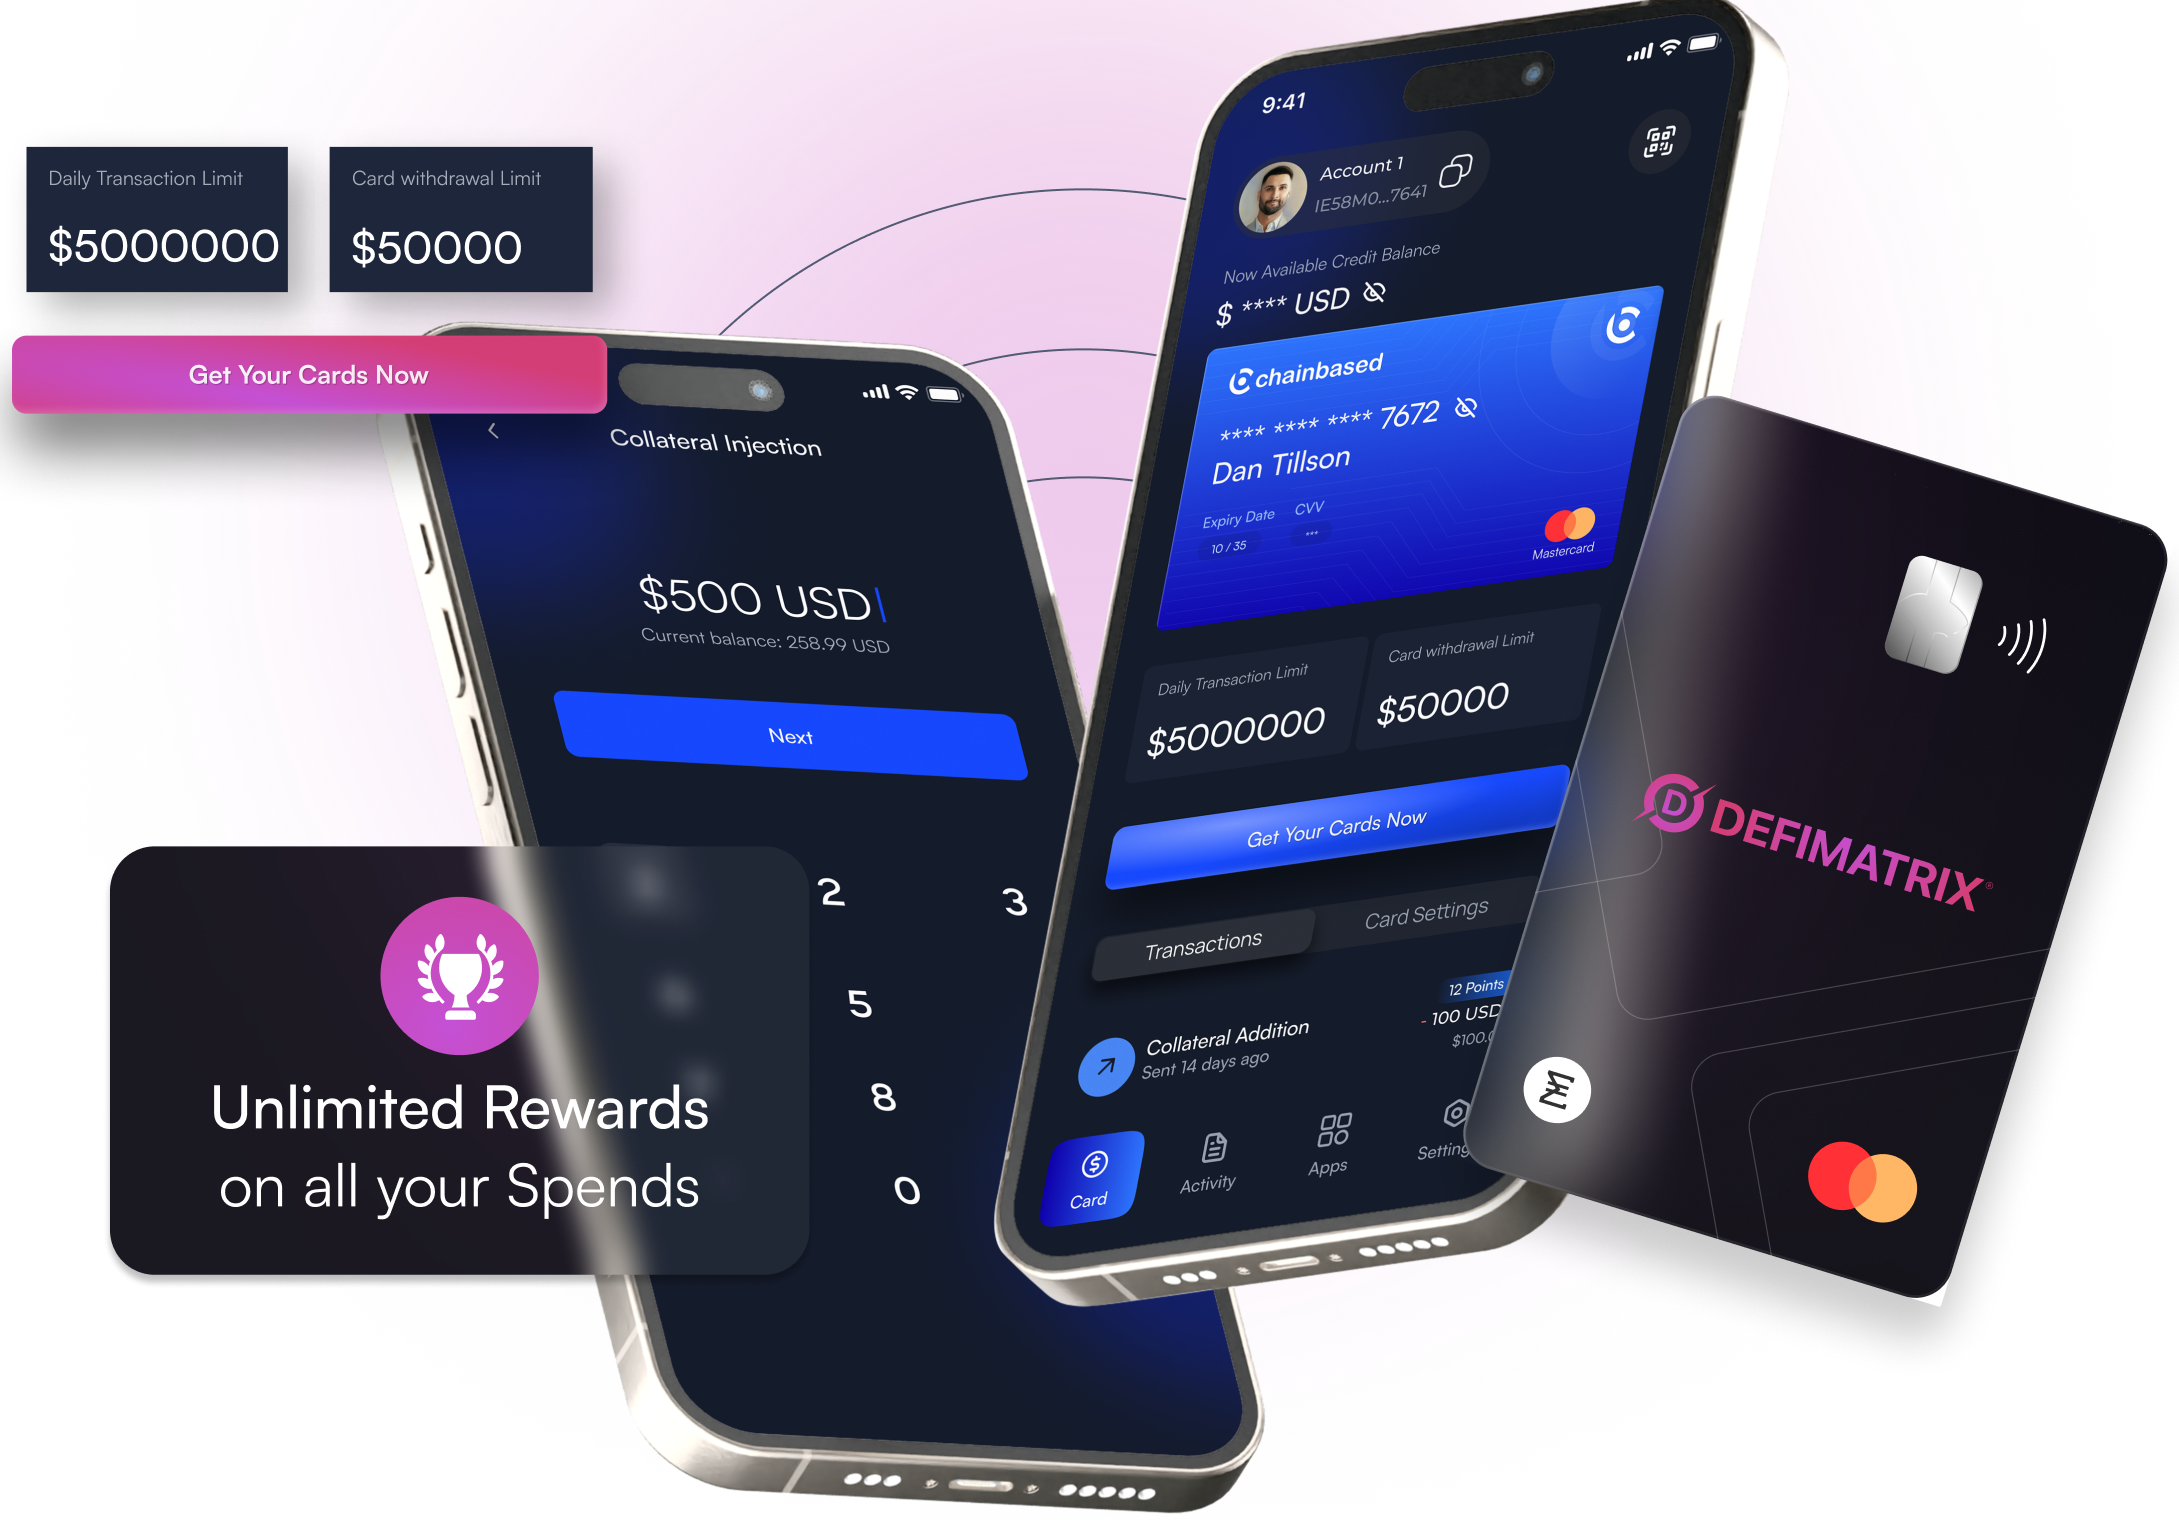
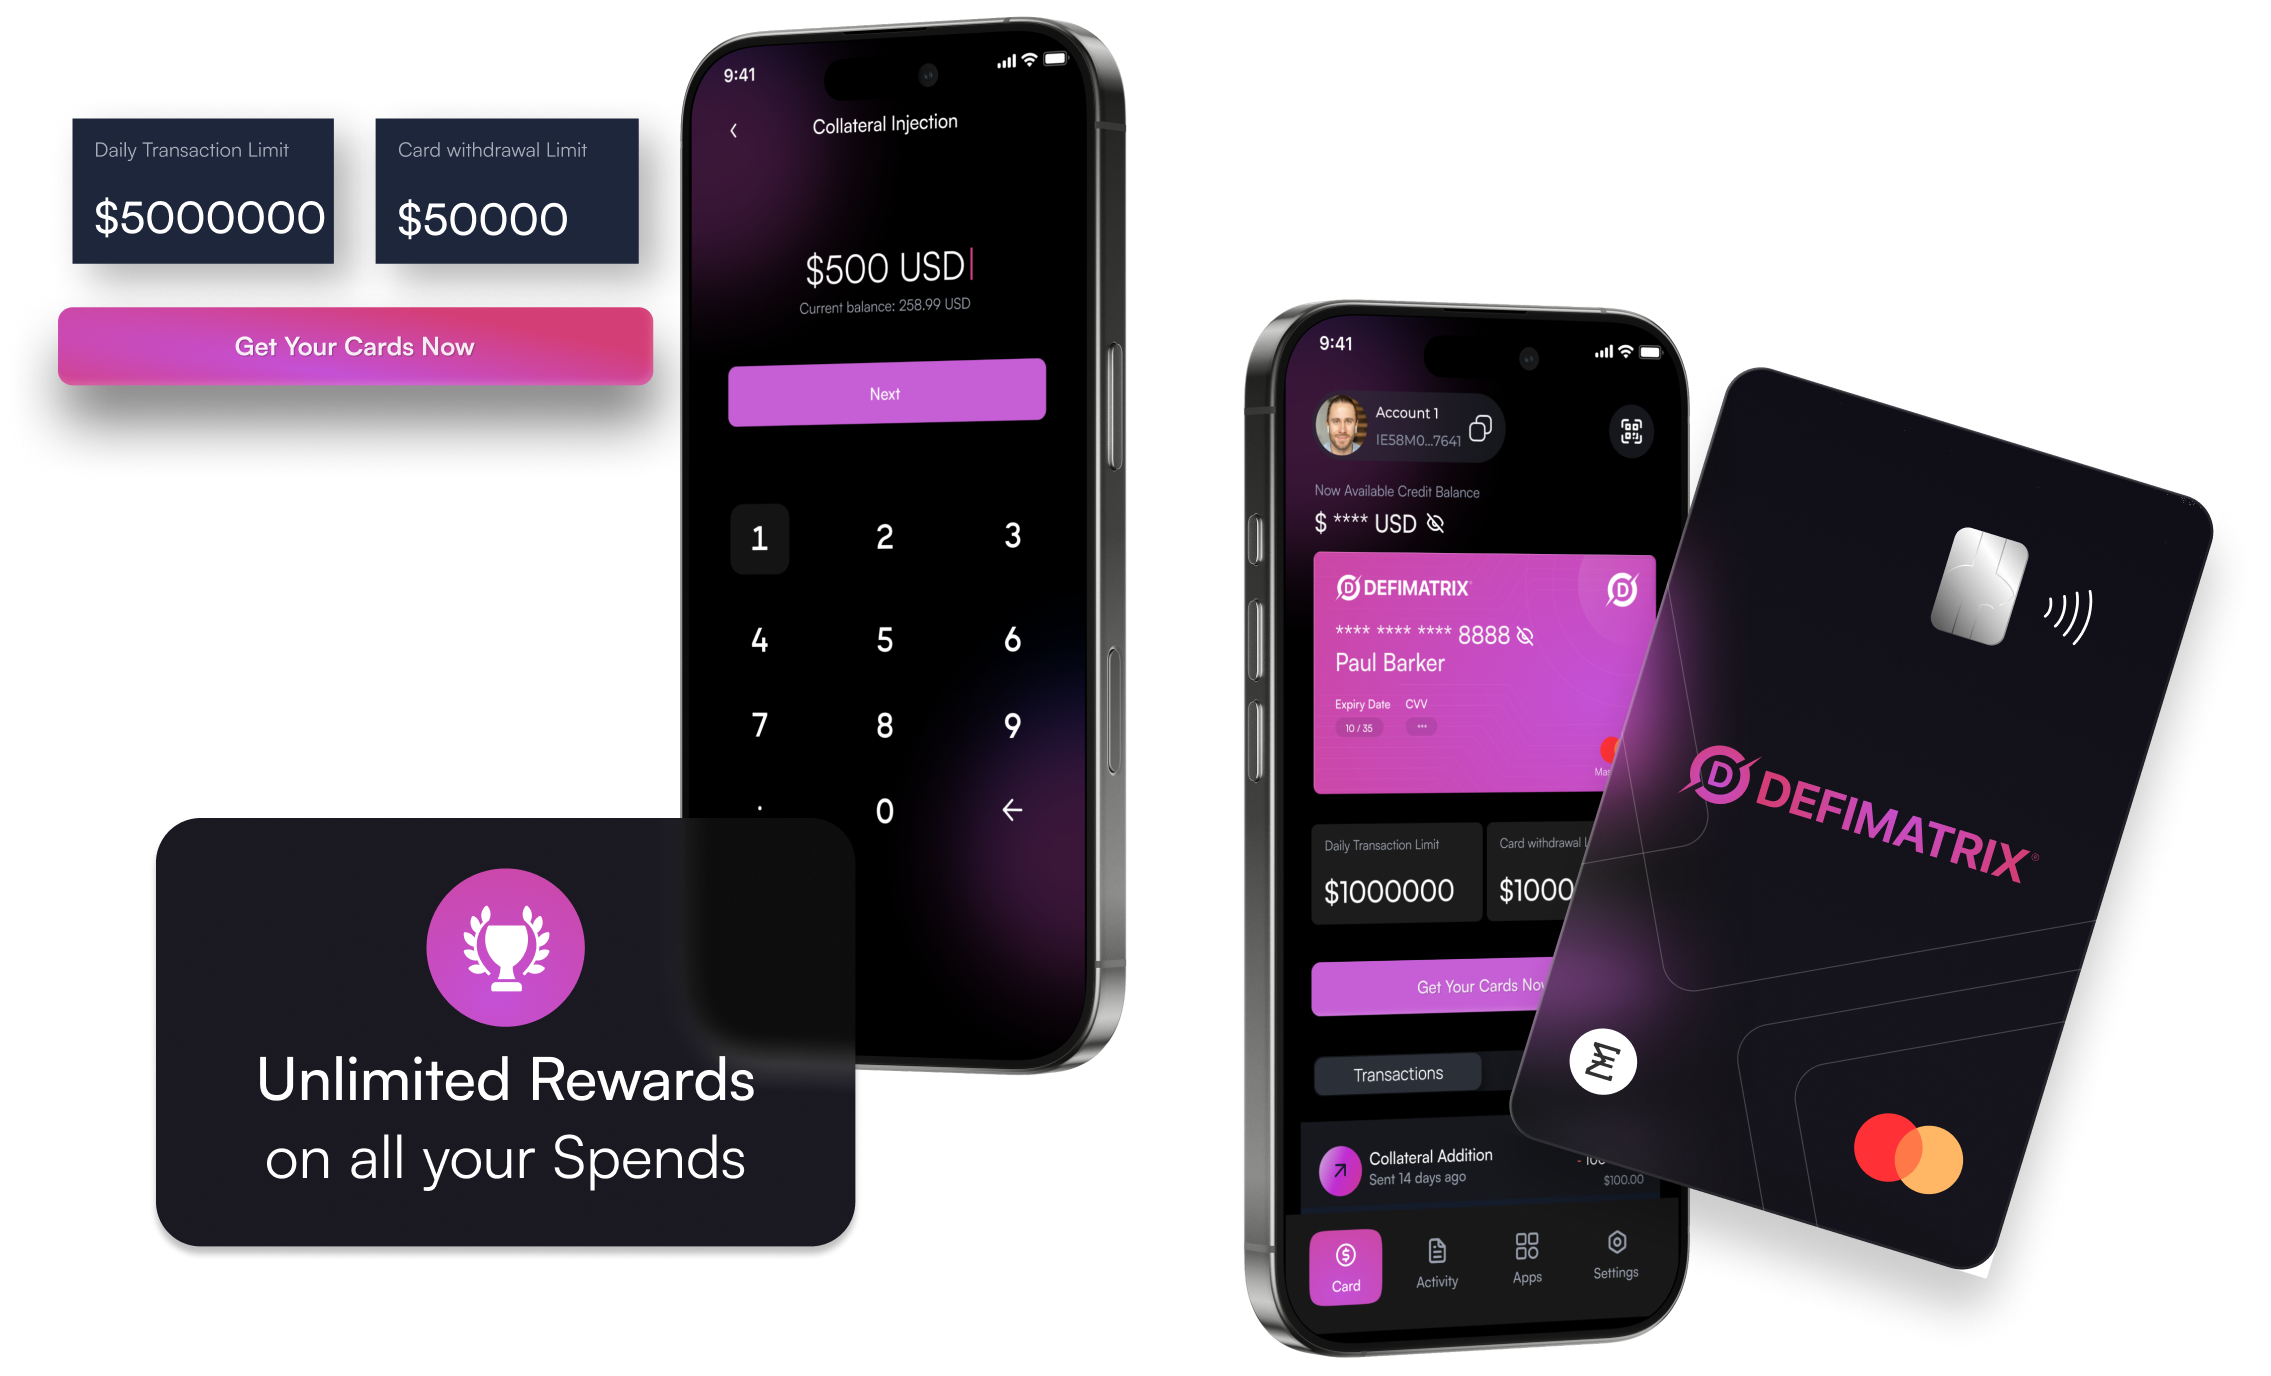
Refactor layout and update images for enhanced visual appeal on PricingPage

diff --git a/src/app/get-your-card/page.tsx b/src/app/get-your-card/page.tsx
@@ -13,68 +13,70 @@ export default function PricingPage() {
           <Header  />
         </div>
             <div className="group/tiers py-12">
-      <div className="mx-auto max-w-7xl px-6 lg:px-8">
-        <div className="mx-auto max-w-4xl text-center">
-          <p className="text-balance text-3xl font-thin tracking-tight text-white sm:text-6xl">
-            Spend Crypto Like <span className="font-normal text-[#C450D5]">Cash</span>
-          </p>
-        </div>
-        <p className="mx-auto mt-3 max-w-2xl text-pretty text-center text-lg font-medium text-white/80">
-          Use your crypto for everyday expenses seamlessly
-        </p>
-         <p className="mx-auto mt-2 max-w-2xl text-pretty text-center text-lg font-medium text-white">
-          Anytime. Anywhere.
-        </p>
-         <a
-                href="mailto:enterpriseplaninquiry@defimatrix.io"
-                className="mt-8 block  rounded-full bg-gradient-to-r from-purple-500 to-pink-500 px-6 py-3 text-center text-sm font-thin text-white transition-all duration-200 hover:from-purple-600 hover:to-pink-600    w-fit mx-auto"
-              >
-                Get Your Cards Now
-              </a>
-        <img src='/Card_1.png' alt='Get Your Card' className='  w-full  rounded-xl shadow-lg' />
-      
-        <div className="isolate mx-auto mt-10 grid max-w-md grid-cols-1 gap-4 md:max-w-2xl md:grid-cols-2 lg:max-w-4xl xl:mx-0 xl:max-w-none xl:grid-cols-4">
-     
-        </div>
-      </div>
+                <div className="mx-auto max-w-7xl px-6 lg:px-8">
+                  <div className="mx-auto max-w-4xl text-center">
+                    <p className="text-balance text-3xl font-thin tracking-tight text-white sm:text-6xl">
+                      Spend Crypto Like <span className="font-normal text-[#C450D5]">Cash</span>
+                    </p>
+                  </div>
+                  <p className="mx-auto mt-3 max-w-2xl text-pretty text-center text-lg font-medium text-white/80">
+                    Use your crypto for everyday expenses seamlessly
+                  </p>
+                  <p className="mx-auto mt-2 max-w-2xl text-pretty text-center text-lg font-medium text-white">
+                    Anytime. Anywhere.
+                  </p>
+                  <a
+                          href="mailto:enterpriseplaninquiry@defimatrix.io"
+                          className="mt-8 block  rounded-full bg-gradient-to-r from-purple-500 to-pink-500 px-6 py-3 text-center text-sm font-thin text-white transition-all duration-200 hover:from-purple-600 hover:to-pink-600    w-fit mx-auto"
+                        >
+                          Get Your Cards Now
+                        </a>
+                   <div className="mt-10 relative" aria-hidden="true" >
+                      <div className="relative w-[50vw] mx-auto mt-5 py-5">
+                        {/* Center main card image */}
+                        <img 
+                          src='/Iphone1.png' 
+                          alt='Get Your Card' 
+                          className='h-[30vh] sm:h-[80vh] rounded-xl shadow-lg animate-float mx-auto' 
+                        />
+                        
+                        {/* Top-left floating image */}
+                        <img 
+                          src='/imagelt.png' 
+                          alt='Feature 1' 
+                          className='absolute top-0 left-[-5%] sm:left-[-10%] h-[10vh] sm:h-[35vh] object-contain rounded-lg shadow-md animate-slide-from-left' 
+                        />
+                        
+                        {/* Bottom-left floating image */}
+                        <img 
+                          src='/imagelb.png' 
+                          alt='Feature 2' 
+                          className='absolute bottom-0 left-[-12%] h-[10vh] sm:h-[35vh] object-contain rounded-lg shadow-md animate-slide-from-left-delayed' 
+                        />
+                        
+                        {/* Mid-right floating image */}
+                        <img 
+                          src='/imagerc.png' 
+                          alt='Feature 3' 
+                          className='absolute top-1/2 right-[-10%] transform -translate-y-1/2 h-[25vh] sm:h-[80vh] object-contain rounded-lg shadow-md animate-slide-from-right' 
+                        />
+                      </div>
+                    </div>
+                
+                  <div className="isolate mx-auto mt-10 grid max-w-md grid-cols-1 gap-4 md:max-w-2xl md:grid-cols-2 lg:max-w-4xl xl:mx-0 xl:max-w-none xl:grid-cols-4">
+              
+                  </div>
+                </div>
 
-      <div className="mx-auto max-w-4xl text-center">
-          <p className="text-balance text-5xl font-thin tracking-tight text-white sm:text-6xl">
-            The Most Rewarding Crypto Card
-          </p>
-        </div>
-        <div className="mt-20 relative" aria-hidden="true" >
-            <div className="relative w-[50vw] mx-auto mt-5 py-5">
-              {/* Center main card image */}
-              <img 
-                src='/Iphone.png' 
-                alt='Get Your Card' 
-                className='h-[30vh] sm:h-[80vh] rounded-xl shadow-lg animate-float mx-auto' 
-              />
-              
-              {/* Top-left floating image */}
-              <img 
-                src='/Frame1.png' 
-                alt='Feature 1' 
-                className='absolute top-0 left-[-5%] sm:left-[-10%] h-[8vh] sm:h-[30vh] object-contain rounded-lg shadow-md animate-slide-from-left' 
-              />
-              
-              {/* Bottom-left floating image */}
-              <img 
-                src='/Frame.png' 
-                alt='Feature 2' 
-                className='absolute bottom-0 left-[-12%] h-[8vh] sm:h-[30vh] object-contain rounded-lg shadow-md animate-slide-from-left-delayed' 
-              />
-              
-              {/* Mid-right floating image */}
-              <img 
-                src='/DefiCard.png' 
-                alt='Feature 3' 
-                className='absolute top-1/2 right-[-10%] transform -translate-y-1/2 h-[15vh] sm:h-[50vh] object-contain rounded-lg shadow-md animate-slide-from-right' 
-              />
+              <div className="mx-auto max-w-4xl text-center">
+                  <p className="text-balance text-5xl font-thin tracking-tight text-white sm:text-6xl">
+                    The Most Rewarding Crypto Card
+                  </p>
+                </div>
+
+                <img src='/Card.png' alt='Get Your Card' className=' h-full sm:h-[80vh] mx-auto mt-10  rounded-xl shadow-lg' />
+                
             </div>
-          </div>
-    </div>
       <div className="hidden md:grid grid-cols-2 gap-8 max-w-7xl mx-auto px-6 lg:px-8 mb-16">
        
                 <div
